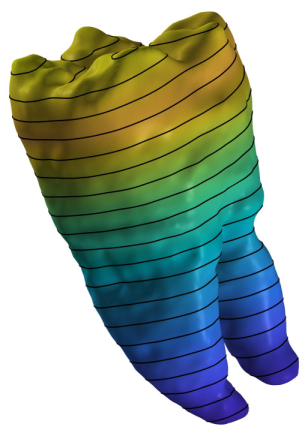
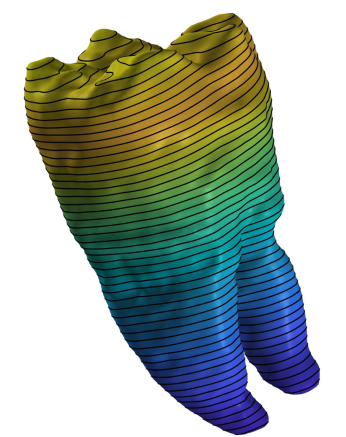
change demo1 thumbnail and update README

Changed region(s): [[0.0292, 0.0, 0.9935, 1.0]]

diff --git a/README.md b/README.md
@@ -15,7 +15,7 @@ with sequentially ordered vertices
 Extract and visualize planar contours at the intersection of mesh with k uniformly spaced cutting planes:
 	
 	n=1; 				% index of principal axis specifying cutting plane normal
-	k=20;				% number of cuts
+	k=50;				% number of cuts
 	IsoCut_demo1(n,k)
 	
 ![Planar cuts](Images/demo1.jpg)
@@ -27,12 +27,12 @@ Try calling `IsoCut_demo1` with different values of `k` and `n`. Inspect code fo
 
 Examples of iso-contours on a unit sphere:
 	
-	k=20;				% number of level sets; must be an integer between 1 and 20
+	k=20;				% number of level sets
 	IsoCut_demo2(k)
 
 ![Non-planar cuts](Images/demo2.jpg)
 	
-Try calling `IsoCut_demo2` different values of `k`.
+Try calling `IsoCut_demo2` different values of `k`; must be an integer between 1 and 20.
 
 
 ## Demo 3: Modify mesh connectivity to include edges along a cut
@@ -43,20 +43,20 @@ require insertion of the iso-contour polyline into the surface mesh. Doing so, f
 faces on the other side to obtain two separate meshes. ***The cuts can be planar or non-planar. However, they must be closed 
 and non self-intersecting.*** 
 
-	iv=0.6;				% iso-value; can vary between 0.01 and 0.99
+	iv=0.6;				% iso-value
 	IsoCut_demo3(iv)
 
 ![Mesh surgery](Images/demo3.jpg)
 
-Try calling `IsoCut_demo3` different values of `iv`.
+Try calling `IsoCut_demo3` different values of `iv`; must be between 0.01 and 0.99
 
  
 ## Assumptions and Limitations
 
 1. The function `OrderIsoContourVerts` assumes that
-	- computed level sets do not pass through saddle points of the scalar field
+	- computed level sets do not pass through saddle points of the input scalar field
 	- iso-contours extracted from closed surfaces are closed
-	- iso-contours extracted from open surfaces are either open or closed, but the end-points of open contours termite at the 
+	- iso-contours extracted from open surfaces are either open or closed, but the end-points of open contours terminate at the 
 	surface boundary
 
 2. At this time, the function `IsoCut` works only for closed iso-contours. The special case where the cut intersects
@@ -64,13 +64,12 @@ Try calling `IsoCut_demo3` different values of `iv`.
    (a) the input surface mesh is closed, OR 
    (b) the input surface mesh is open AND the cut does not intersect any of its boundary edges    
 
-3. The level sets that pass through the mesh edges are computed using linear interpolation. *If the field evaluated at 
-the mesh vertices is produced by a ***nonlinear*** function (F), the iso-contours computed with `IsoContour.m` will be 
-approximations of the corresponding level sets of F.* In those cases, the only way to increase the accuracy of the 
-extracted iso-contours is to linearly subdivide the mesh (prior to calculation of the scalar field at the vertices) until
-the error is below desired tolerance (e.g., see [TriQuad.m] from the [S2-Sampling-Toolbox] repo). If there is sufficient
-interest in an accurate extraction of iso-contours for nonlinear scalar fields, I can incorporate a zero-finding algorithm
-into the 'IsoContour' function, sometime in the future.
+3. Level sets are computed using linear interpolation. *If the field defined at the mesh vertices is produced by a 
+***nonlinear*** function (F), the iso-contours computed with `IsoContour.m` will be approximations of the corresponding level 
+sets of F.* In those cases, the only way to increase the accuracy of the extracted iso-contours is to linearly subdivide the 
+mesh (prior to calculation of the scalar field at the vertices) until the error is below desired tolerance (e.g., see [TriQuad.m]
+from the [S2-Sampling-Toolbox] repo). If there is sufficient interest in an accurate extraction of iso-contours for nonlinear scalar
+fields, I can incorporate a zero-finding algorithm into the 'IsoContour' function, sometime in the future.
 
 If you encounter any bugs/problems with this code you can e-mail me or repot the issue [here].
 
